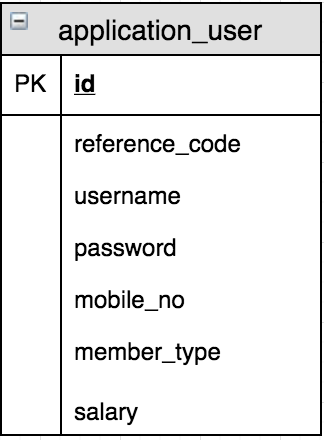
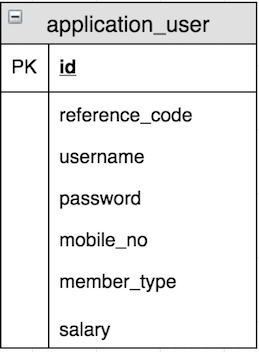
Update readme and reduce size table image

diff --git a/README.md b/README.md
@@ -9,6 +9,33 @@ We design the table to keep user information as figure below:
 
 ![Screenshot Application User Table](application_user_table.png?raw=true "Screenshot Application User Table")
 
+## File Structure
+```
+register-demo/
+ ├──src/                                                        * our source files
+ │   ├──main
+ │   │   ├──java.com.register.demo
+ │   │   │   ├──error
+ │   │   │   │   └──ErrorResponse.java                          * custom error response.
+ │   │   │   ├──security                                        * Security related folder(JWT, filters)
+ │   │   │   │   ├──JWTAuthenticationFilter.java                * the filter responsible for authenticating users
+ │   │   │   │   ├──JWTAuthorizationFilter.java                 * the filter responsible for user authorization
+ │   │   │   │   ├──SecurityConstants.java                      * security constants
+ │   │   │   │   └──WebSecurity.java                            * config file for filter, custom user service etc.
+ │   │   │   ├──user
+ │   │   │   │   ├──ApplicationUser.java                        * entity database
+ │   │   │   │   ├──ApplicationUserRepository.java              * repositories for accessing database
+ │   │   │   │   ├──ApplicationUserResponse.java                * application user model
+ │   │   │   │   ├──UserController.java                         * REST controller to handle User related requests
+ │   │   │   │   └──UserDetailsServiceImpl.java                 * custom UserDatilsService implementataion, to check username/password
+ │   │   │   └──RegisterApplication.java                        * Application main enterance
+ │   │   └──recources
+ │   │       ├──application.properties                          * application variables are configured here
+ │   │       └──schema.sql                                      * h2 database query(table creation)
+ │   └──test                                                    * Junit test folder
+ └──pom.xml                                                     * what maven uses to manage it's dependencies
+```
+
 # Requirement
 Make sure you have Maven and Java 1.7 or greater
 
@@ -19,13 +46,16 @@ running at [http://localhost:8080](http://localhost:8080).
 ```bash
 # clone the project
 git clone https://github.com/pyodkhla/registration-demo.git
-#
+
+
 # change directory
 cd registration-demo
-#
+
+
 # install with mvn
 mvn install
-#
+
+
 # start the server
 mvn spring-boot:run
 ```
@@ -45,7 +75,8 @@ To test it, we can use a tool like Postman or curl to issue request to the avail
 # Issue a GET request to retrieve users with no JWT
 # HTTP 403 Forbidden status is expected
 curl http://localhost:8080/users
-#
+
+
 # Registers a new user
 curl -H "Content-Type: application/json" -X POST -d '{
     "username": "admin",
@@ -53,13 +84,15 @@ curl -H "Content-Type: application/json" -X POST -d '{
     "mobileNo": "1234567890",
     "salary": 999999
 }' http://localhost:8080/users/register
-#
+
+
 # Logs into the application (JWT is generated)
 curl -i -H "Content-Type: application/json" -X POST -d '{
     "username": "admin",
     "password": "password"
 }' http://localhost:8080/login
-#
+
+
 # Issue a new GET request, passing the JWT
 # remember to replace xxx.yyy.zzz with the JWT retrieved above
 curl -H "Authorization: Bearer xxx.yyy.zzz" http://localhost:8080/users
